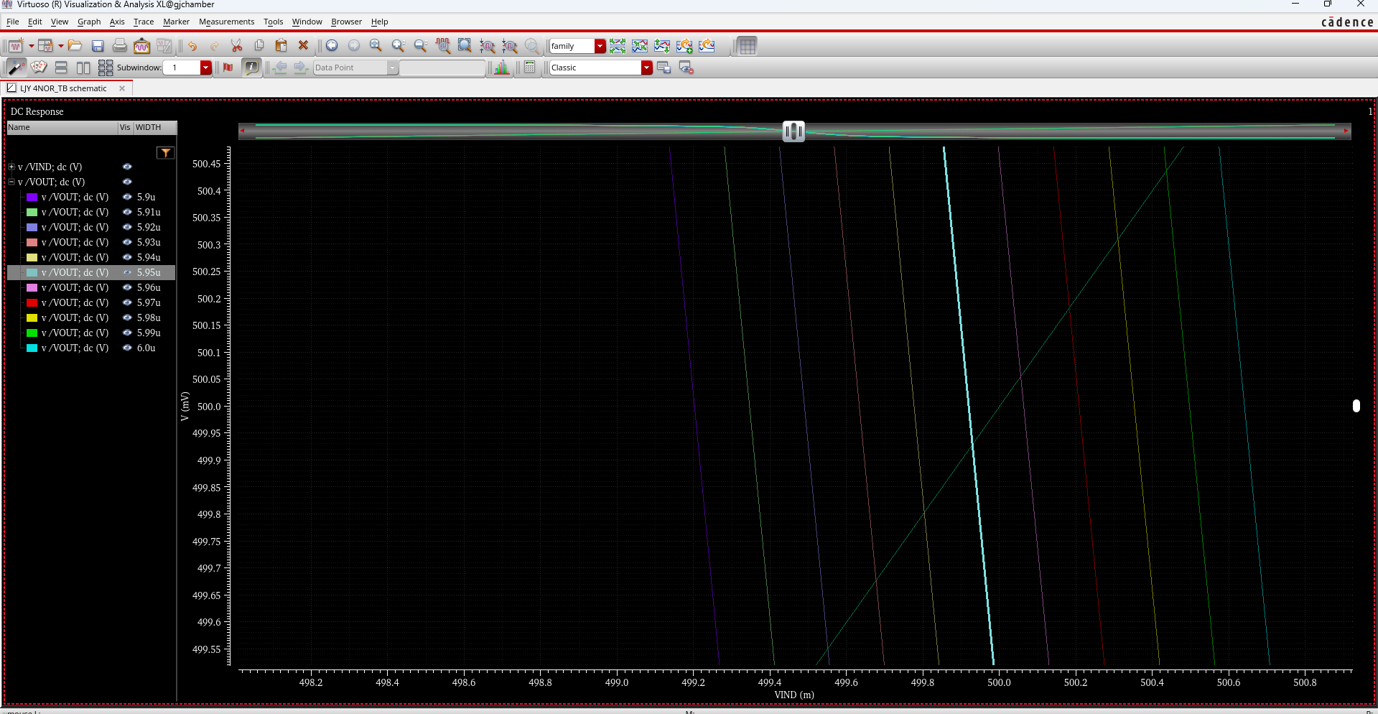
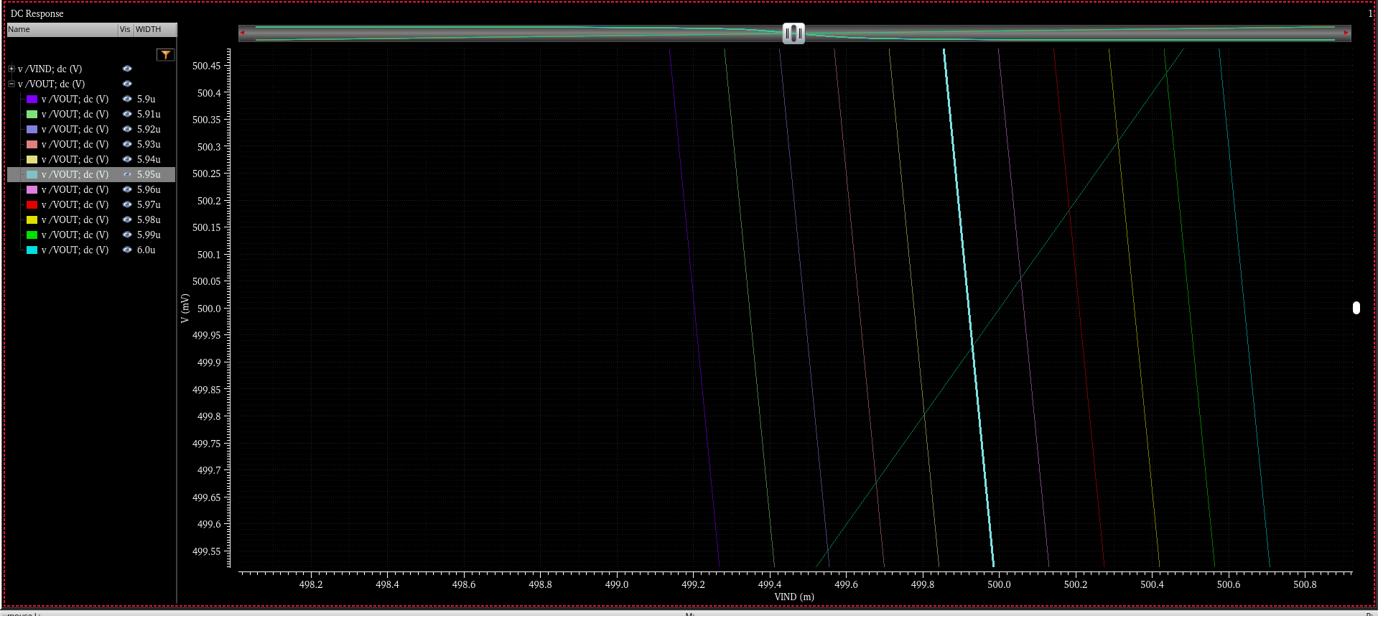
Add 4-input NOR gate section to README

diff --git a/README.md b/README.md
@@ -230,6 +230,38 @@ Size : 1.78um x 8.31um
 
 ### 4-input NOR Gate
 
+<h3 align="center">4-input NOR Gate 회로 구성</h3>
+
+<p align="center">
+  <img src="img/4NOR_SCH.png" width="60%">
+</p>
+
+<h3 align="center">Symbol &amp; Test Bench</h3>
+
+<p align="center">
+  <img src="img/4NOR_TB.png" width="90%">
+</p>
+
+<h3 align="center">Simulation</h3>
+
+<p align="center">
+  <img src="img/4NOR_SIM.png" width="90%">
+</p>
+
+<p align="center">
+PMOS Width 시뮬레이션한 결과, <b>5.95u</b>일 때 가장 안정적으로 동작
+</p>
+
+<h3 align="center">Layout</h3>
+
+<p align="center">
+  <img src="img/4NOR_LAY.png" width="45%">
+</p>
+
+<p align="center">
+Size : 2.2um x 9.51um
+</p>
+
 ## 4. Switch
 
 ## 5. MUX
